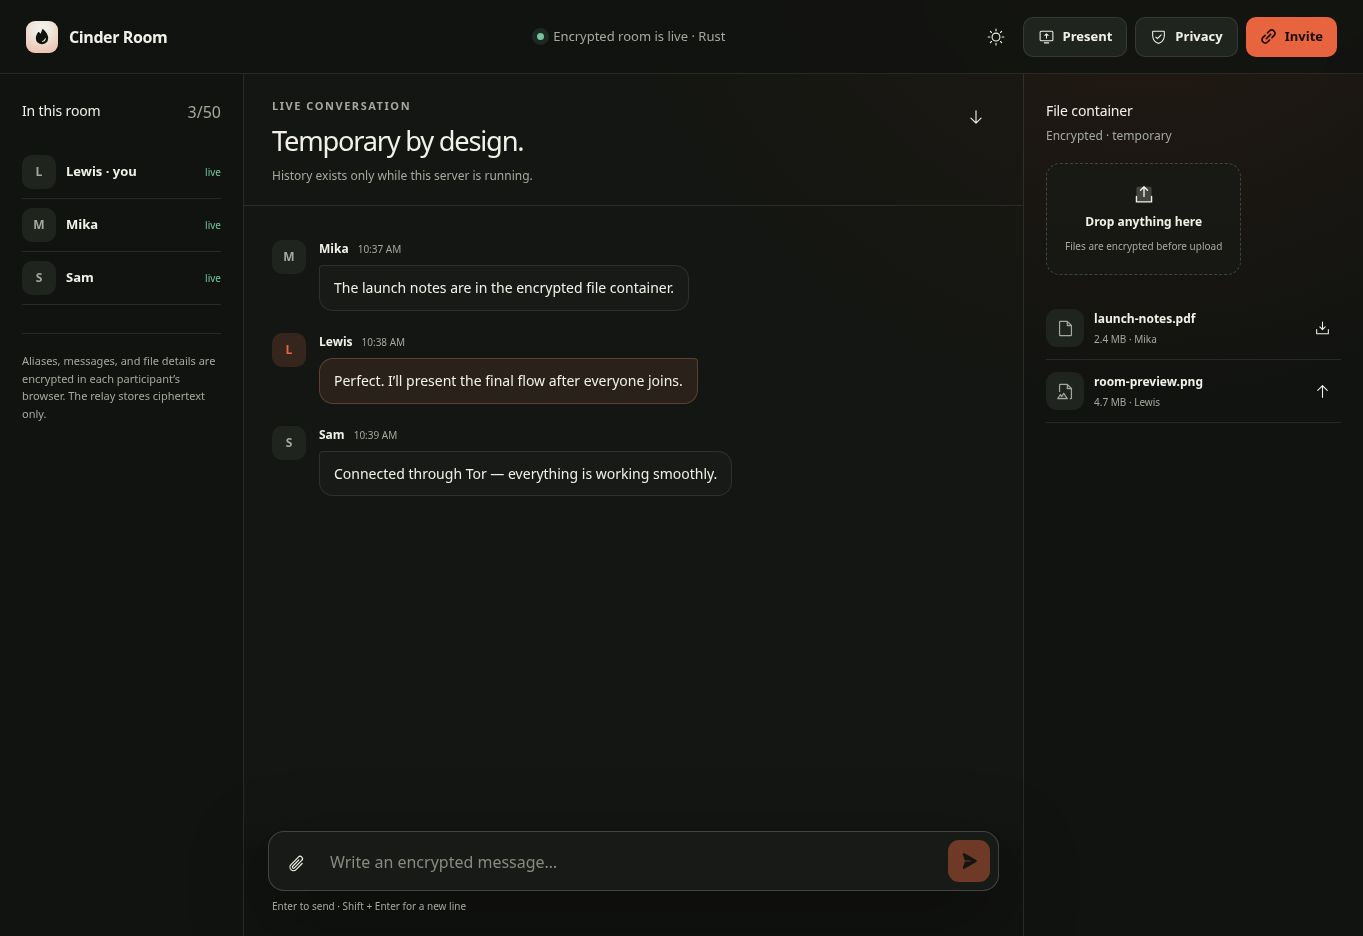
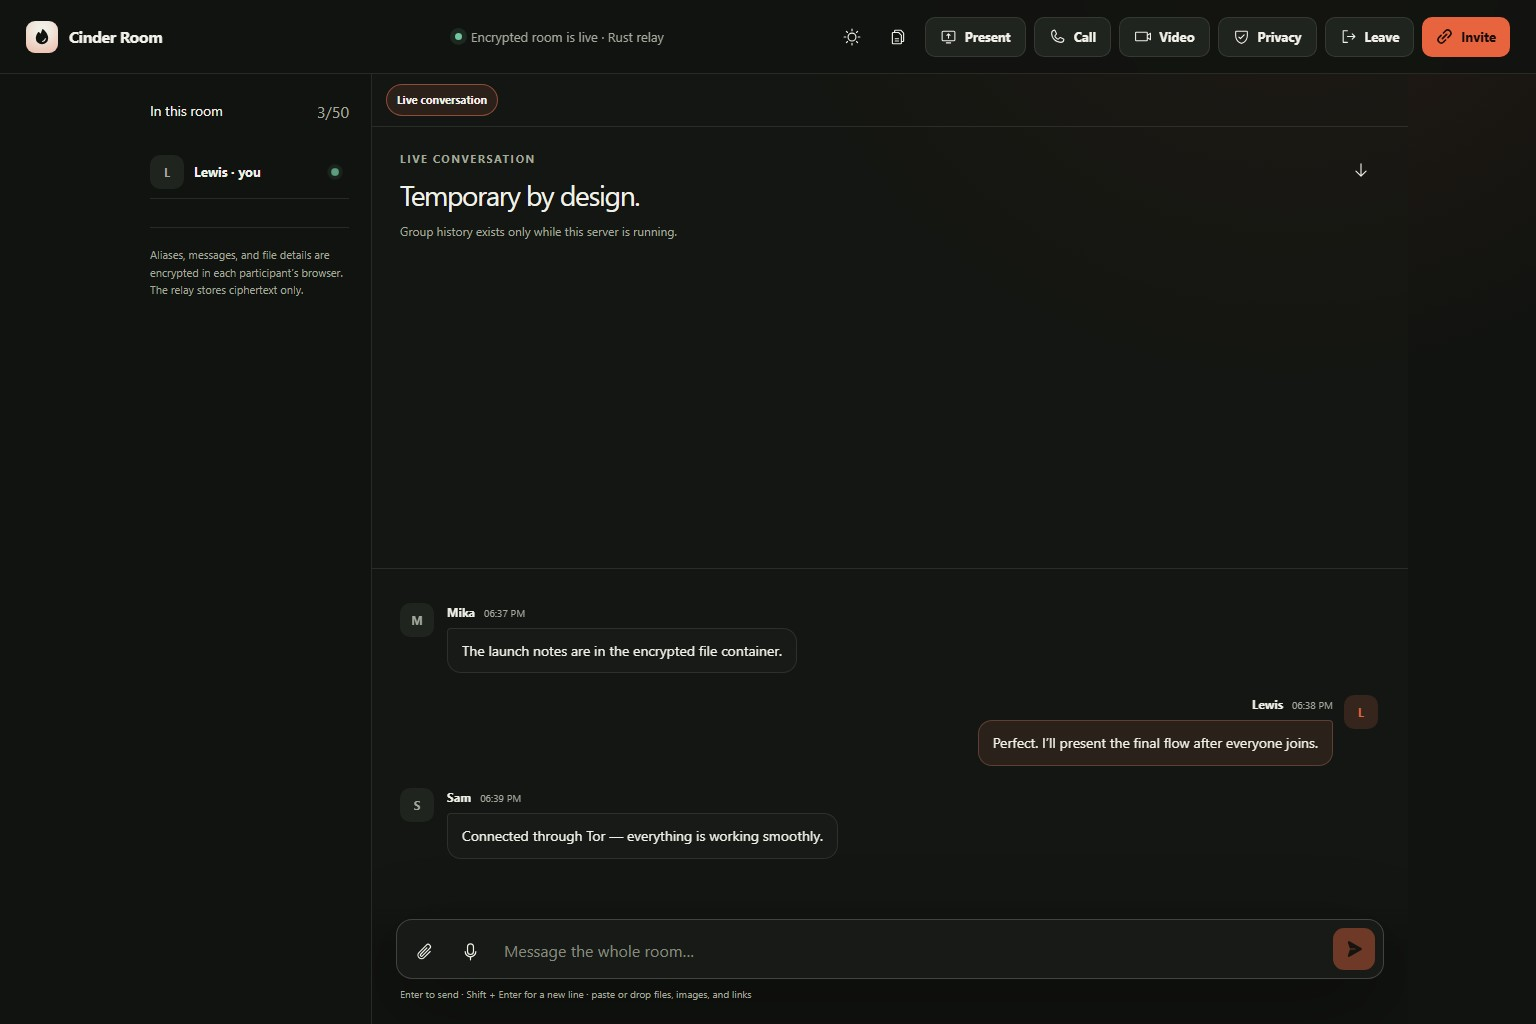
Update README screenshots and refresh room marketing assets.
Document call and light theme previews and align README copy with the latest room UI.

diff --git a/components/room-app.tsx b/components/room-app.tsx
@@ -323,6 +323,7 @@ export default function RoomApp({ demo = false }: { demo?: boolean }) {
   const [activePresentation, setActivePresentation] = useState<ActivePresentation | null>(null);
   const [screenOpen, setScreenOpen] = useState(false);
   const [meetingOpen, setMeetingOpen] = useState(false);
+  const [demoCallSnapshot, setDemoCallSnapshot] = useState(false);
   const [mobileCallView, setMobileCallView] = useState<"video" | "chat">("video");
   const [meetingIntent, setMeetingIntent] = useState<"video" | "audio" | "present">("video");
   const [recordingVoice, setRecordingVoice] = useState(false);
@@ -714,6 +715,16 @@ export default function RoomApp({ demo = false }: { demo?: boolean }) {
     if (toastTimerRef.current !== null) window.clearTimeout(toastTimerRef.current);
   }, []);
 
+  useEffect(() => {
+    if (!demo) return;
+    const snapshot = new URLSearchParams(window.location.search).get("snapshot");
+    const task = window.setTimeout(() => {
+      if (snapshot === "light") setTheme("light");
+      if (snapshot === "call") { setDemoCallSnapshot(true); setMeetingOpen(true); }
+    }, 0);
+    return () => window.clearTimeout(task);
+  }, [demo]);
+
   useEffect(() => () => {
     if (preview) URL.revokeObjectURL(preview.url);
   }, [preview]);
@@ -950,6 +961,11 @@ export default function RoomApp({ demo = false }: { demo?: boolean }) {
       onAdmissionDecision={decideAdmission}
       onModerate={moderateParticipant}
     />;
+  }
+
+  function demoCallPanel() {
+    if (!demoCallSnapshot) return null;
+    return <section className="meeting-inline-shell" aria-label="Demo encrypted meeting workspace"><div className="meeting-card"><header className="meeting-toolbar"><div><p className="eyebrow"><span className="status-dot" /> Encrypted group media</p><h2>Lewis is broadcasting</h2></div><button className="icon-button" aria-label="End demo call"><X size={18} /></button></header><div className="meeting-stage"><div className="meeting-grid"><article className="meeting-tile speaking"><div className="meeting-camera-off"><VideoCamera size={28} /><span>Lewis · camera preview</span></div><div className="meeting-tile-label"><span>Lewis · you</span><span className="quality-dot quality-excellent" /></div></article><article className="meeting-tile"><div className="meeting-camera-off"><VideoCamera size={28} /><span>Mika · camera off</span></div><div className="meeting-tile-label"><span>Mika</span><span className="quality-dot quality-good" /></div></article></div></div><footer className="meeting-controls"><button className="meeting-control"><Microphone size={20} /><span>Mic</span></button><button className="meeting-control active"><VideoCamera size={20} /><span>Stop video</span></button><button className="meeting-control"><MonitorArrowUp size={20} /><span>Present</span></button><button className="meeting-control"><UsersThree size={20} /><span>People</span></button><button className="meeting-control leave"><Phone size={20} /><span>Leave call</span></button></footer></div></section>;
   }
 
   function fallbackPresentationPanel() {
@@ -1330,6 +1346,7 @@ export default function RoomApp({ demo = false }: { demo?: boolean }) {
 
         <div className={`room-center ${meetingOpen || (screenOpen && activePresentation) ? `media-open mobile-show-${mobileCallView}` : ""}`}>
           {(meetingOpen || (screenOpen && activePresentation)) && <nav className="mobile-call-switcher" aria-label="Call view"><button className={mobileCallView === "video" ? "active" : ""} onClick={() => setMobileCallView("video")}>Video</button><button className={mobileCallView === "chat" ? "active" : ""} onClick={() => setMobileCallView("chat")}>Chat{totalDirectUnread ? <span className="unread-badge">{totalDirectUnread}</span> : null}</button></nav>}
+          {demoCallPanel()}
           {fallbackPresentationPanel()}
           {meetingPanel()}
         <section className="chat-panel" aria-label="Room chat">

diff --git a/README.md b/README.md
@@ -5,19 +5,22 @@
 [![Rust 1.94](https://img.shields.io/badge/Rust-1.94-dea584?logo=rust)](rust-toolchain.toml)
 [![Node 22](https://img.shields.io/badge/Node-22-5fa04e?logo=nodedotjs)](package.json)
 
-Run one temporary, self-hosted room and share its capability link. Cinder Room provides end-to-end encrypted chat, files, group video, screen sharing, waiting-room controls, and meeting activities. The Rust relay is the default; a protocol-compatible Node relay remains available for development and fallback.
+Run one temporary, self-hosted room and share its capability link. Cinder Room provides end-to-end encrypted group and direct chat, files, group video, screen sharing, waiting-room controls, and meeting activities. The Rust relay is the default; a protocol-compatible Node relay remains available for development and fallback.
 
 ![Cinder Room desktop interface](docs/screenshots/room-desktop.jpg)
 
-![Cinder Room demonstration](docs/cinder-room-demo.gif)
+![Cinder Room light theme](docs/screenshots/room-light.jpg)
+
+![Cinder Room active call workspace](docs/screenshots/room-call.jpg)
 
 ## What it includes
 
-- End-to-end encrypted messages, aliases, file contents and metadata, screen-relay segments, and meeting activities
+- End-to-end encrypted group messages, relay-targeted direct messages, aliases, file contents and metadata, screen-relay segments, and meeting activities
 - Group camera and microphone, camera plus screen, active-speaker/grid/spotlight layouts, pinning, picture-in-picture, and adaptive quality through a self-hosted LiveKit SFU
-- Host waiting room, lock/admit/deny, mute, remove, and destroy-room controls
+- Persistent broadcast indicator with Join/Rejoin, plus full-width desktop media and focused Video/Chat views on mobile
+- Host waiting room with in-room admit/deny prompts, lock, mute, remove, and destroy-room controls
 - Raise hand, reactions, Q&A, quick polls, and opt-in browser captions
-- Responsive desktop and mobile layouts with explicit meeting and room Leave actions
+- Responsive participant and conversation tabs, unread direct-message badges, and left-drawer file storage
 - Independent Tor Onion Service and normal-browser routes
 - Memory-only room state and temporary ciphertext files removed when the process exits normally
 - No accounts, analytics, database, paid API, recording, or hosted Cinder service
@@ -41,7 +44,9 @@ The terminal prints the private host URL. Open it, choose an alias, then use **I
 CINDER_RELAY=node npm run room
 ```
 
-Press `Ctrl+C` to destroy the server-side room. **Leave** disconnects only the current participant; **Destroy room** ends it for everyone. A hard power loss or `SIGKILL` can bypass orderly cleanup, so inspect the operating system's temporary directory in that case.
+Press `Ctrl+C` to destroy the server-side room. **Leave** disconnects only the current participant; **Destroy room** ends it for everyone and does not automatically open a replacement room or tunnel. Start `npm run room` again when a new room is wanted. A hard power loss or `SIGKILL` can bypass orderly cleanup, so inspect the operating system's temporary directory in that case.
+
+Always share a URL produced by **Invite**. The complete guest URL contains `#k=`; opening a private host/bootstrap URL on another device can create a different encryption key, preventing the devices from decrypting one another. Cinder now reports that mismatch instead of silently hiding those participants.
 
 ### Docker
 
@@ -65,6 +70,7 @@ Append the host URL's `/room/<room-id>#o=<owner-token>` suffix to the generated 
 | Protocol area | Rust | Node fallback |
 | --- | :---: | :---: |
 | Encrypted chat history and presence | Yes | Yes |
+| Relay-targeted direct chat and unread delivery | Yes | Yes |
 | Encrypted file relay and limits | Yes | Yes |
 | Waiting room, lock, admit, and deny | Yes | Yes |
 | Host mute, remove, and destroy | Yes | Yes |
@@ -108,6 +114,8 @@ This is privacy engineering, not a guarantee of total anonymity:
 ## Group video and screen sharing
 
 Cinder uses the free, open-source LiveKit Community Edition as a self-hosted SFU. Browsers publish encrypted camera, microphone, screen, and screen-audio tracks to the SFU instead of forming a full peer-to-peer mesh. Cinder derives a separate media key from the invitation key using HKDF and configures LiveKit browser E2EE; the SFU routes encrypted media but still sees connection metadata and bandwidth.
+
+Starting a call publishes an encrypted call-status event. Other room members see a pulsing broadcast indicator and can join or rejoin while a broadcaster remains active. Joining begins receive-only: camera and microphone permissions are requested only when their controls are enabled. Closing the media workspace uses the same teardown as **Leave call**, disconnecting media and releasing local tracks. On phones, **Video** and **Chat** are focused full-height views rather than a cramped split screen; switching views does not leave the call.
 
 After admission, the relay gives each browser a short-lived connection capability for file and media HTTP requests. The capability is held only in memory, revoked on disconnect, rate-limited, and never included in invitations. LiveKit join tokens expire after five minutes.
 
